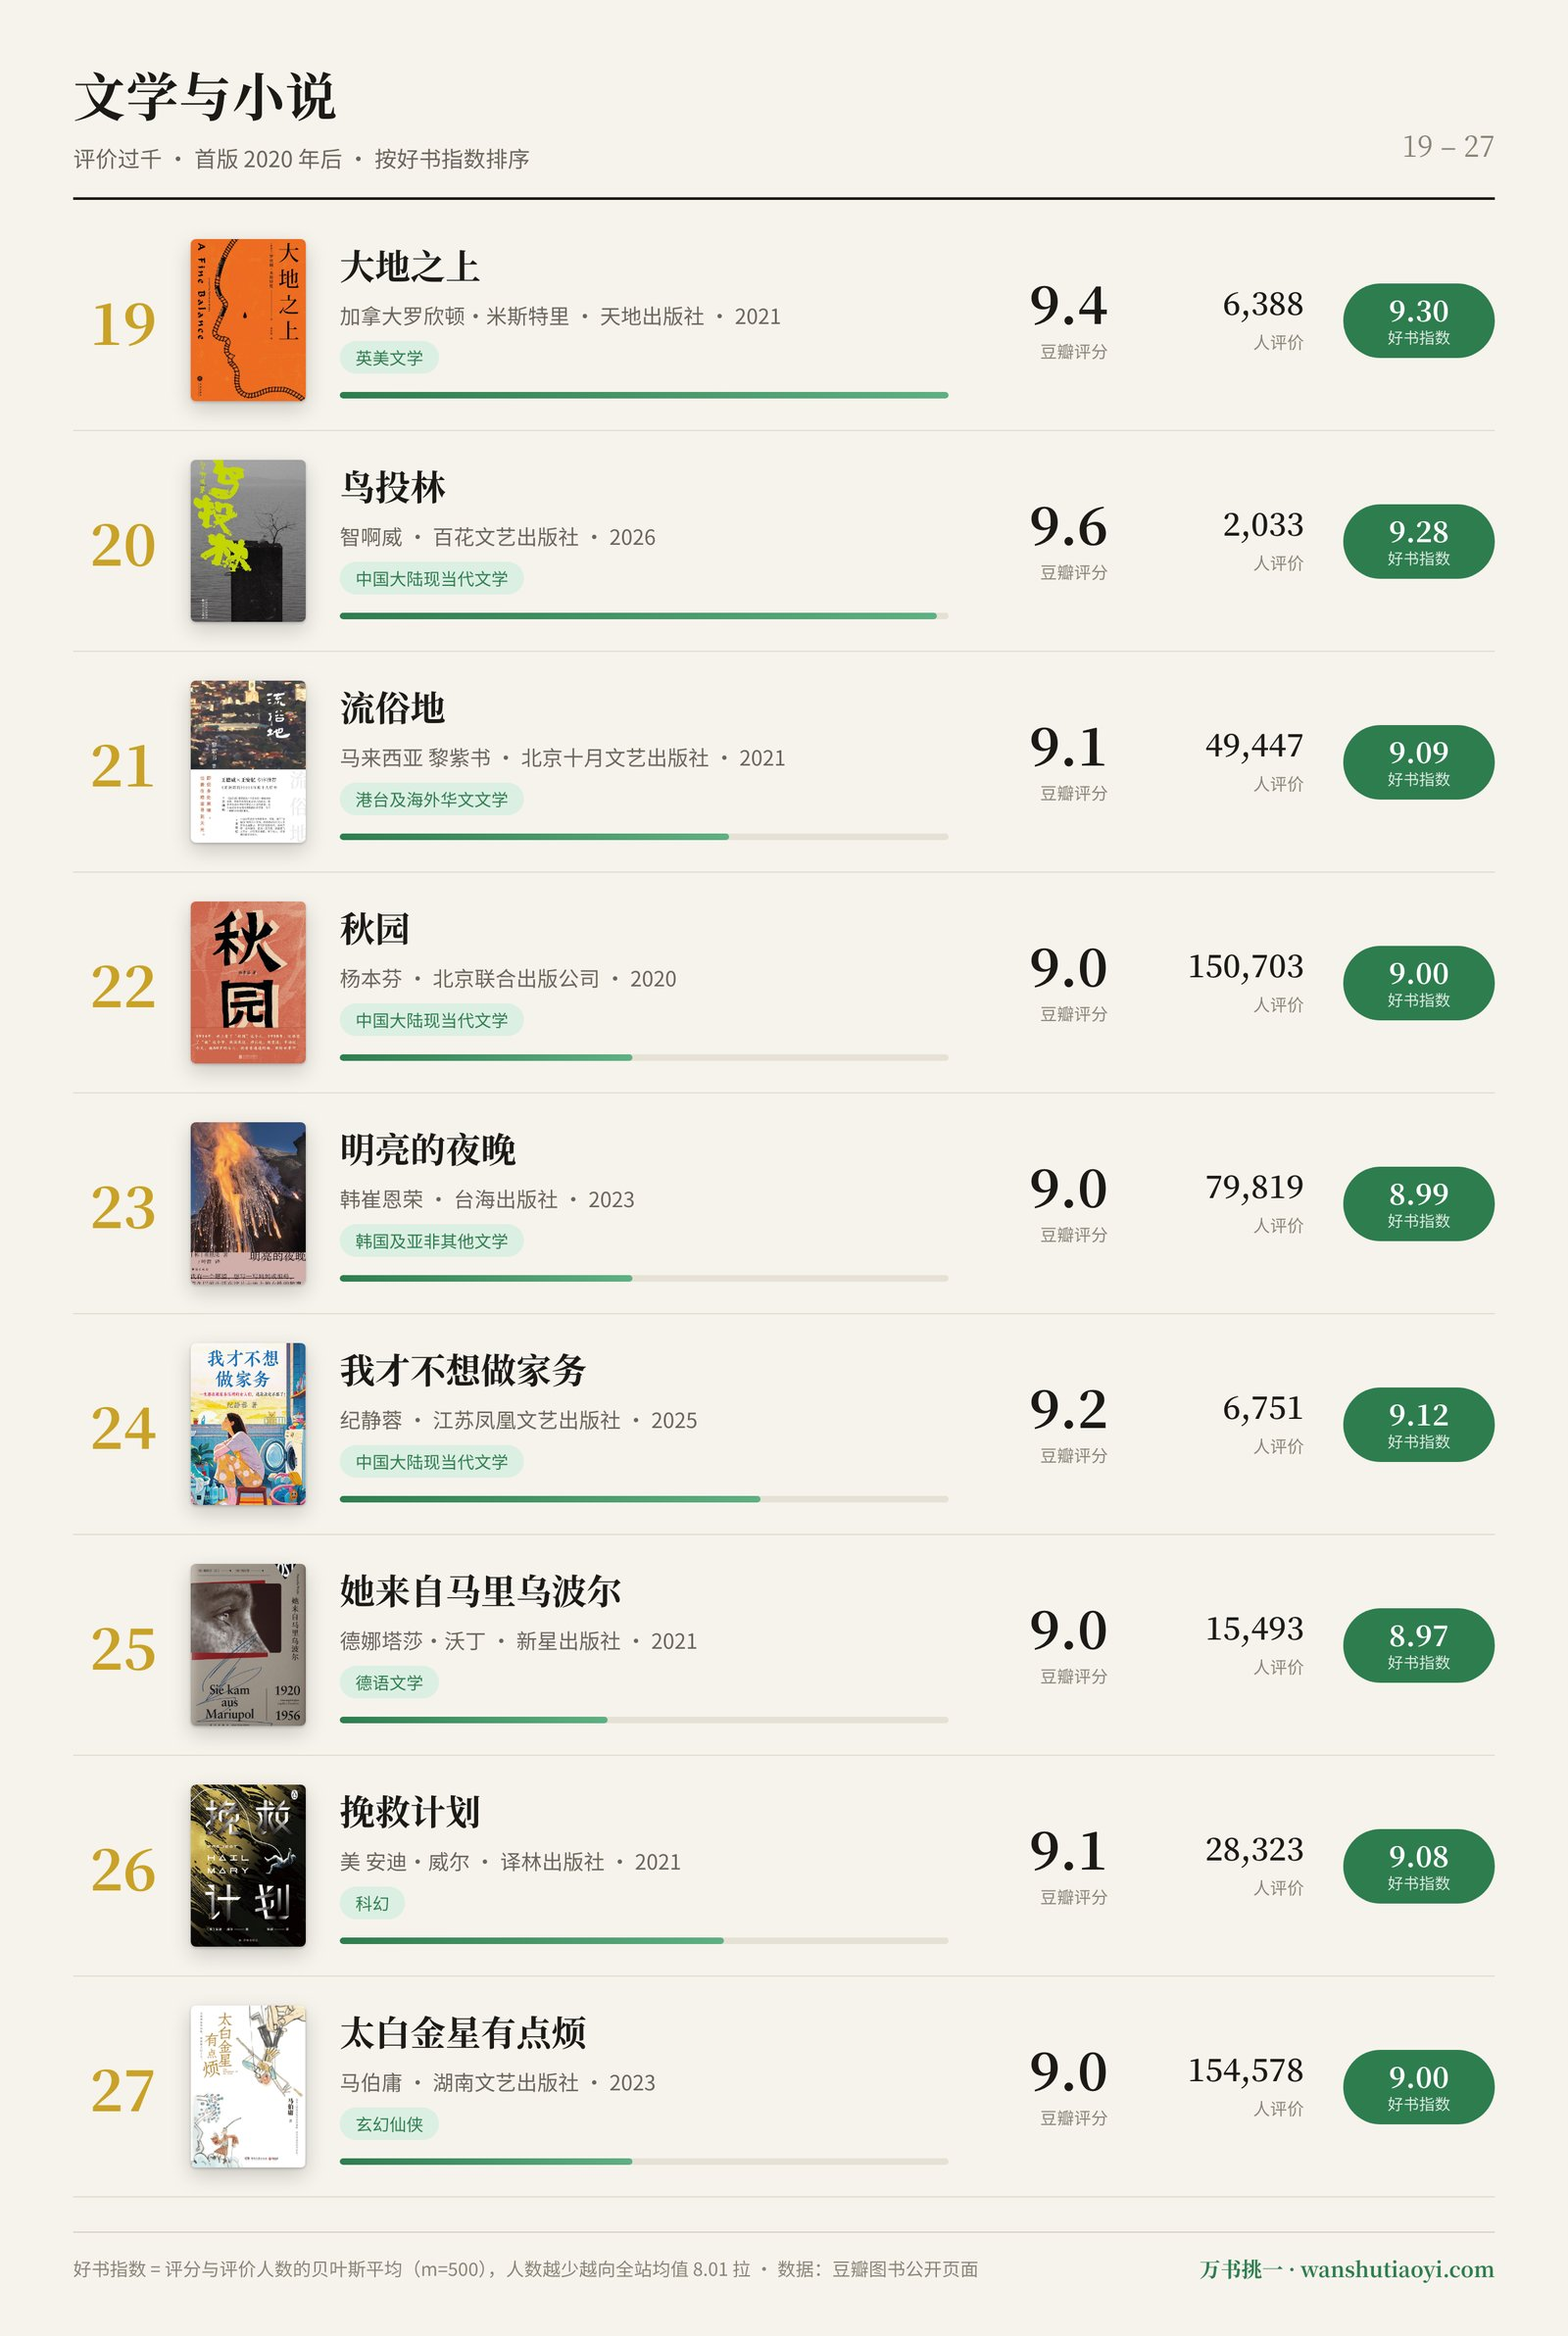
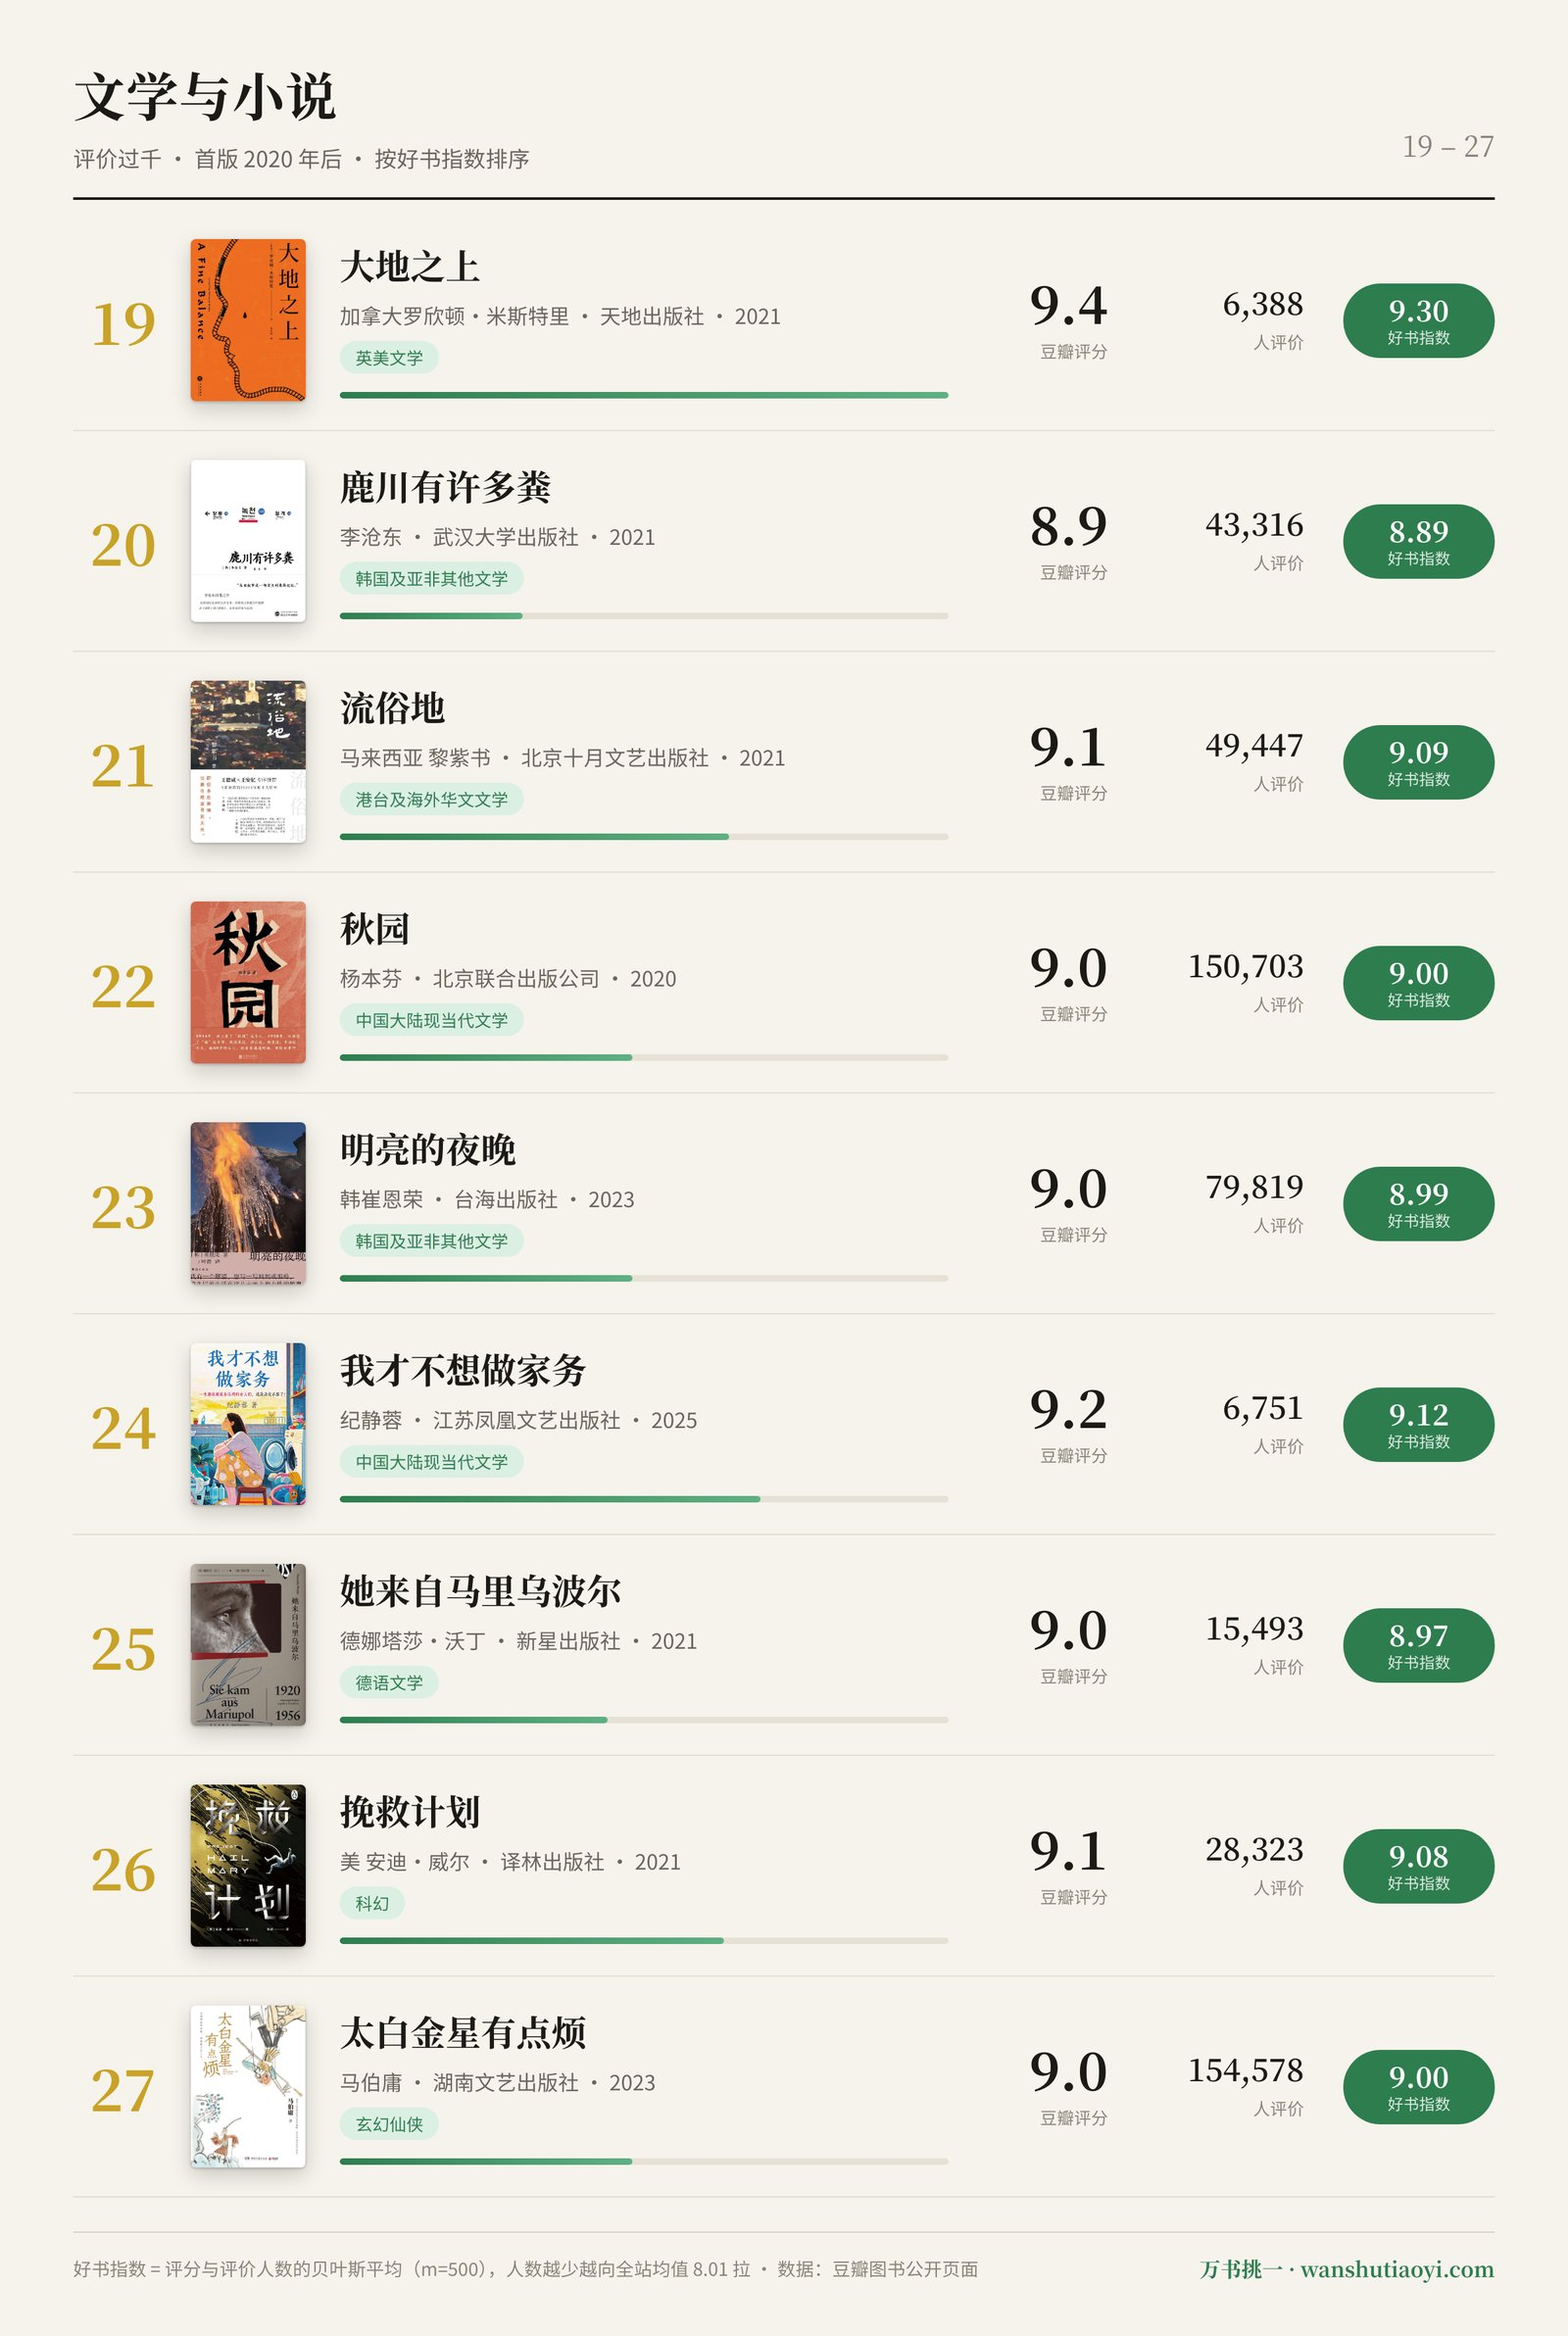
deploy: lanbing510/lanbing510-blog@5257cbc8f381630b01953511ba7d18be6760a646

Changed region(s): [[0.0938, 0.1862, 0.3438, 0.2794], [0.7812, 0.2173, 0.8438, 0.2483], [0.6562, 0.2173, 0.7188, 0.2483]]

diff --git a/2026/10/15/WanShuTiaoYiNew2020.html b/2026/10/15/WanShuTiaoYiNew2020.html
@@ -2721,7 +2721,7 @@ var _hmt = _hmt || [];
 
 <p>条件是：首版年份 ≥ 2020、评价人数 ≥ 1,000、按好书指数排序。好书指数是贝叶斯平均——v/(v+m)×评分 + m/(v+m)×C，m 取 500，C≈8.01，和 IMDb Top 250 同类方法，评价人数少的书分数会被往全站均值拉。同一本书有多个版本只算一版。</p>
 
-<p>「首版年份」是这份榜单和站内列表最大的差别。站内筛「2020 年以后」会把老书新版一起列出来，本文按书名在全库里找最早的版本，1920 年就出过的不算新书。另外剔掉了两本评价人数可疑的书。</p>
+<p>「首版年份」是这份榜单和站内列表最大的差别。站内筛「2020 年以后」会把老书新版一起列出来，本文按书名在全库里找最早的版本，1920 年就出过的不算新书。「首版」对译作指中文版首次出版。另外剔掉了三本评分分布可疑的书（几千人评价、三星以下为零）。</p>
 
 <p>四组是按 AI 主题归的：非虚构与纪实、历史与思想、文学与小说、经济·心理·科学·育儿。组内按好书指数排。</p>
 
@@ -2775,7 +2775,7 @@ var _hmt = _hmt || [];
 
 <p>19. <a href="https://wanshutiaoyi.com/book/35268657">大地之上</a> — 米斯特里写 1975 年紧急状态下的印度，四个人挤在一间公寓里过日子，9.4 分</p>
 
-<p>20. <a href="https://wanshutiaoyi.com/book/38530341">鸟投林</a> — 智啊威 2026 年的短篇集，写父子、乡土和返乡的人，是榜单里最新的一本</p>
+<p>20. <a href="https://wanshutiaoyi.com/book/35517022">鹿川有许多粪</a> — 导演李沧东三十年前写的小说集，2021 年才有中文版，43,316 人评</p>
 
 <p>21. <a href="https://wanshutiaoyi.com/book/35430425">流俗地</a> — 黎紫书写马来西亚怡保一个盲女的一生，近 5 万人评</p>
 
@@ -2819,7 +2819,7 @@ var _hmt = _hmt || [];
 
 <p>《太阳的阴影》2025 年才有中译本。卡普希钦斯基是波兰通讯社驻非洲的记者，从 1957 年起在非洲待了四十年，书里写的是政变、疟疾、长途汽车和村子里的日常。6,667 人评出 9.3 分，排进了非虚构的第一位。</p>
 
-<p>《鸟投林》是榜单里最新的一本，2026 年出版，2,033 人评出 9.6 分。智啊威 1991 年生于河南商水，同名短篇写的是儿子和精神病院院长联手，给退休后专横又失落的父亲演一场戏。评价人数还不多，但在这个人数上能有 9.6 分，值得一看。</p>
+<p>《鹿川有许多粪》是李沧东当导演之前写的小说，韩国 1992 年出版，中文版 2021 年才有。五个中短篇写的都是 1980 年代韩国的普通人，拍过《燃烧》《诗》的人写小说，镜头感是一样的。43,316 人评出 8.9 分。</p>
 
 <p>《隐谷路》和《我的朋友来自1918》是同一类书：都写一群被看作「病人」的人，一个是美国家庭里的六个精神分裂症患者，一个是广东麻风康复村里的老人。前者 13,875 人评，后者 1,900 人评。</p>
 
